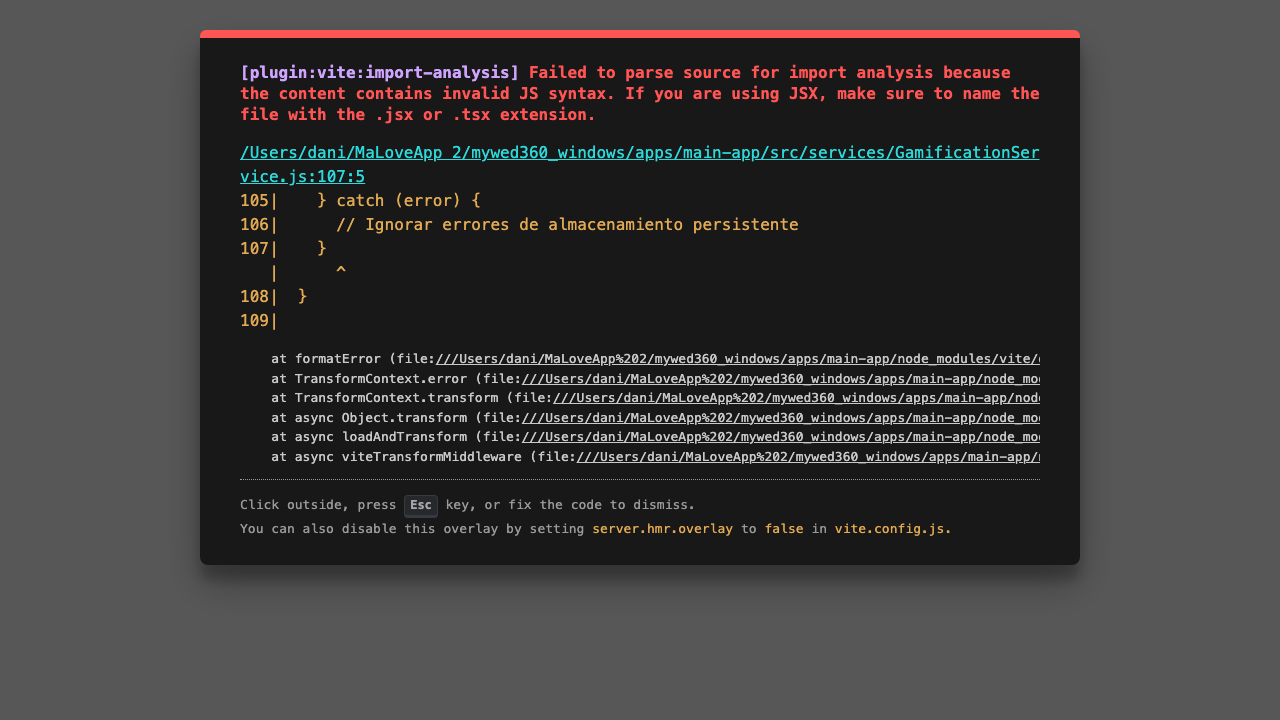
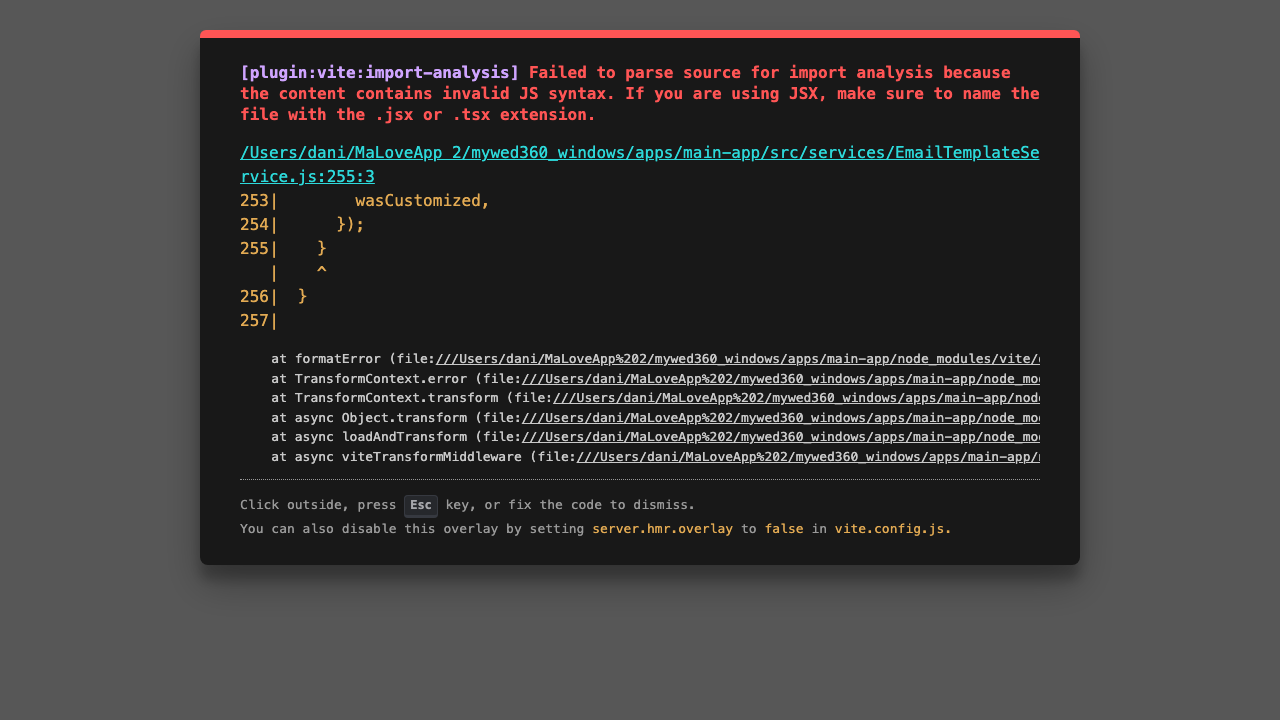
🔧 Fix: Corregir comentarios multi-línea en useFallbackReporting y EmailTemplateService

Changed region(s): [[0.1875, 0.2139, 0.625, 0.3667], [0.6875, 0.1833, 0.8125, 0.2444], [0.1875, 0.3972, 0.2188, 0.4583]]

diff --git a/apps/main-app/src/hooks/useFallbackReporting.js b/apps/main-app/src/hooks/useFallbackReporting.js
@@ -66,10 +66,7 @@ export function useFallbackReporting() {
         if (response?.ok) {
           const result = await response.json();
           if (import.meta.env.DEV) {
-            // console.debug(`[useFallbackReporting] Reported to backend:`, {
-              service,
-              count: result.count,
-            });
+            // console.debug(`[useFallbackReporting] Reported to backend:`, { service, count: result.count });
           }
         } else {
           // Falló el reporte, pero no es crítico

diff --git a/apps/main-app/src/services/EmailTemplateService.js b/apps/main-app/src/services/EmailTemplateService.js
@@ -247,10 +247,7 @@ Muchas gracias,
   logTemplateUsage(category, aiResult, wasCustomized) {
     // Aquí se implementaría la lógica para registrar el uso de plantillas
     // y mejorar las recomendaciones futuras
-    // console.log('Template usage logged:', {
-      category,
-      aiResultId: aiResult?.id,
-      wasCustomized,
+    // console.log('Template usage logged:', { category, aiResultId: aiResult?.id, wasCustomized });
     });
   }
 }
